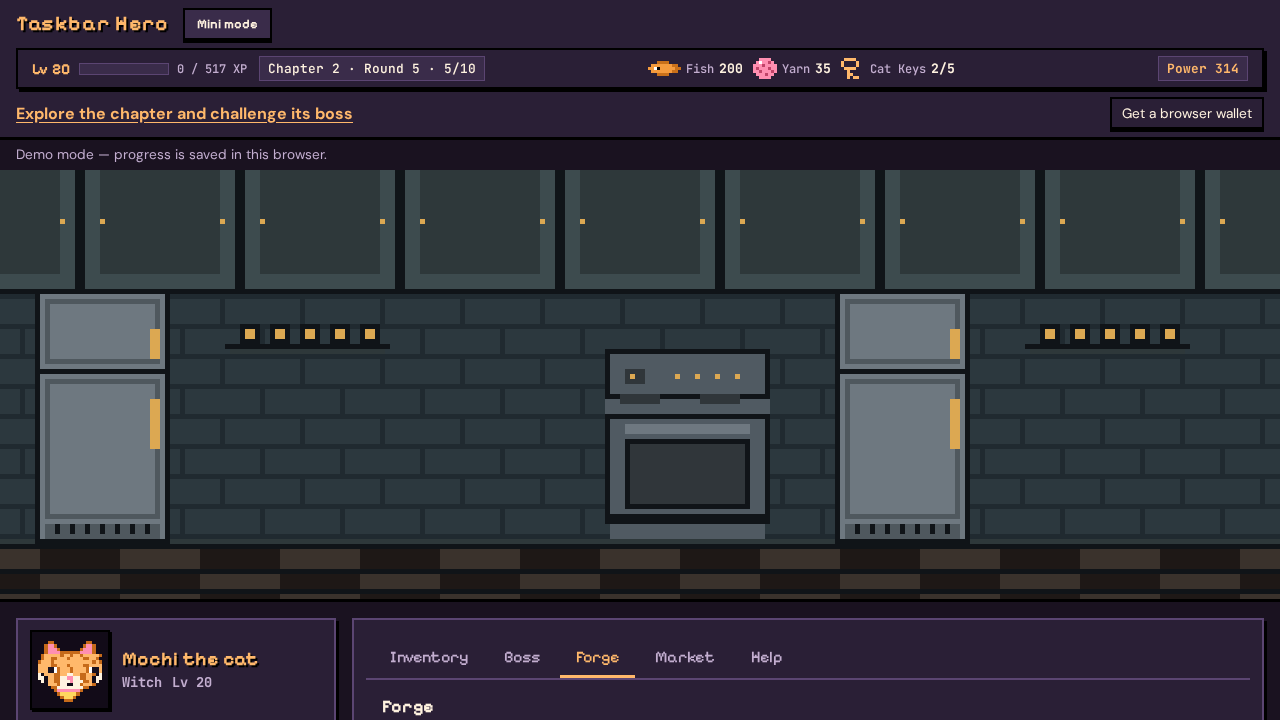
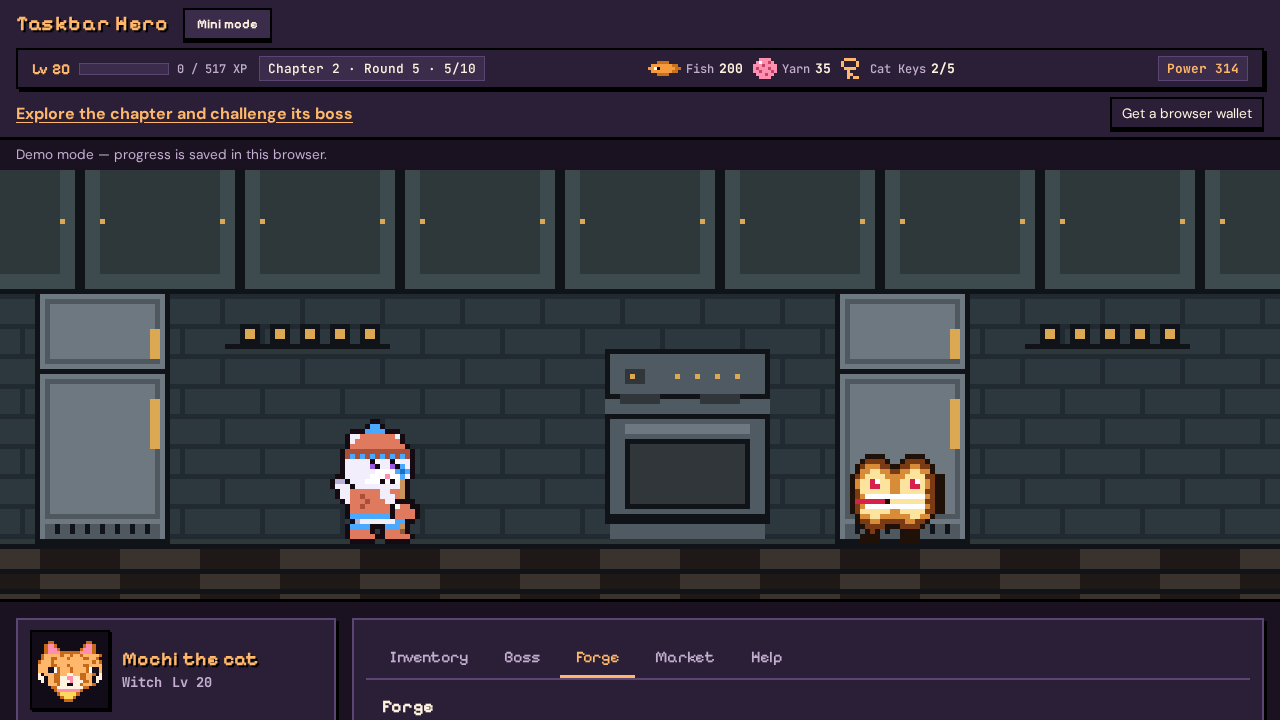
docs: report passing responsive window verification

Changed region(s): [[0.25, 0.5806, 0.3438, 0.7639], [0.6562, 0.6111, 0.75, 0.7639]]

diff --git a/reports/responsive-window.md b/reports/responsive-window.md
@@ -1,109 +1,89 @@
-STATUS: PARTIAL
-STACKED ON ai/codex-v26-e2e @ 33481ce01933834876037127e2753773a9a204cc: merge that first
+STATUS: DONE
+STACKED ON ai/codex-fix-stage-redraw @ 7760775cd2beae2f87efbcbeef6b849c5ae28a5c: merge that first
 
-# Responsive window fix and temporary coordination handoff
+# Responsive window: final verification for Claude
 
-The user requested temporary coordination for Codex/Antigravity under Claude's existing rules, automatic layout adaptation as the browser/in-app window shrinks or stretches, and a Claude review report. Later the user authorized automatic new Codex chats and said Antigravity prompts would be pasted manually.
+Date: 2026-10-26, Asia/Saigon. Branch ai/codex-responsive-window now combines its original CSS-only source changes with the completed, separate renderer-fix parent. The window can shrink/stretch continuously with wrapped HUD values, persistent state/panels and both stage actors rendering after scene replacement. No deployment or merge was performed.
 
-## Outcome
+## Scope, gate and review order
 
-The existing window resize listener already switches between desktop, tablet and phone and resizes the pixel-art scene. The defect was inside the HUD: at >=600 px shared styles force nowrap and hide horizontal overflow. Consequently XP text crossed the chapter chip and currency items crossed the power chip, despite no document scrollbar. The added geometry regression reproduced this in both themes at 1600×900 before the fix.
+The user chose “Keep scope; let Antigravity document it first.” This was followed: original C-R1 stopped PARTIAL at d4fb8ec745a92c1052a8250f57a4108b8ce59ac4 with 68 browser passes / 2 actor failures. No renderer edit was added to C-R1. Antigravity independently published named Finding A-R1-1 in reports/qa-v2-1.md on ai/antigravity-responsive-qa @ 9980b46c01f60dc41975975f6166e99cff16b918. That meets original Q13; its QA-only PARTIAL branch was read, never merged or used as an implementation parent.
 
-The stage shell now gives the HUD its own full-width row and allows groups, XP elements, currency items and chapter text to wrap according to available space. Lower panel children can shrink within their grid cells, and phone sheet content can shrink/scroll. Existing viewport metrics, game rendering/lifecycle, UI components and classic layout code are unchanged. The new styles are scoped to v2 layout classes; no stat is removed and overflow is not hidden to pass the check.
+Codex fixed that one bug on ai/codex-fix-stage-redraw from completed Q9. Only after its report reached DONE with all real checks passing was C-R1 rebased onto it. Only the coordinator's own ai/codex-* history is rewritten, with force-with-lease. An exact copy of the initial PARTIAL report is preserved [in this branch](responsive-window/initial-partial-report.txt); its original commit is also [available here](https://github.com/ntbaoheyhey/taskbar-hero/blob/d4fb8ec745a92c1052a8250f57a4108b8ce59ac4/reports/responsive-window.md); no failing assertion was weakened or deleted.
 
-The continuous-resize test checks 1600×900 → 1280×720 → 1024×768 → 1023×600 → 768×600 → 601×480 → 600×600 → 390×844 → 320×568 → 844×390 → 1280×480 → 1600×900, in dark and light themes. It checks leaf rectangles stay inside the HUD and do not overlap, no page horizontal overflow, class/level/inventory IDs and active Forge tab survive, no page reload (timeOrigin unchanged), exactly one stage canvas, and actual nontransparent actor pixels after each redraw. Screenshots wait for actors rather than capturing a newly created empty canvas.
+Merge/review order for Claude: existing Q4/Q5 → bulk-equip fix → completed Q9 @ 33481ce01933834876037127e2753773a9a204cc → [stage-redraw fix](https://github.com/ntbaoheyhey/taskbar-hero/blob/7760775cd2beae2f87efbcbeef6b849c5ae28a5c/reports/fix-stage-redraw.md) → this responsive branch. Parent source/report is inherited; C-R1's own product allowlist remains layout/layout.css only, plus its new e2e/layout/resize.spec.ts, coordination/prompts and reports/screenshots. Shared HUD, metrics, StageLayout behavior, backend, auth/contracts, economy, final art, dependencies and lock/workspace files are unchanged by this card. StageScene.ts and its lifecycle/actor regressions belong to the separate Q13 parent.
 
-## Coordination and rules
+## Result and acceptance
 
-- [Plan](../docs/responsive-coordination.md): C-R1 Codex implementation; A-R1 independent Antigravity visual/phone QA; C-R2 WAITING on named eligible QA findings.
-- [Antigravity prompt](../docs/prompts/antigravity-responsive-qa.md): ready for the user to paste. Not dispatched. Report-only branch and dated QA1 findings; no product fixes or merging another tool's source.
-- [Codex independent-review prompt](../docs/prompts/codex-responsive-review.md): prepared, not dispatched. Tool discovery searched create_thread and new-chat capabilities; no callable create_thread is exposed in this session. No new user chat or substitute agent was created. User permission is recorded and need not be requested again if the tool becomes available.
-- Claude's original approved-plan copy is not edited. No PR, main push/merge, Antigravity branch merge, workflow, deployment, live SQL, real transaction, auth/contract, dependency/lock/workspace, signed number or final art change. D4 remains NOT READY; D8/D6/D3/D5/D7/D9 stay user-only. This plan does not elevate temporary coordination into production authority.
+- PASS: HUD has a full-width row and scoped .v2-shell wrapping overrides; XP/currencies/progress do not overlap or clip. Lower panel children can shrink, and phone sheet content can scroll. No stat is hidden to satisfy geometry checks.
+- PASS: original continuous-resize assertions, with an atomic target-dimension/one-canvas wait, both dark and light, through 1600×900 → 1280×720 → 1024×768 → 1023×600 → 768×600 → 601×480 → 600×600 → 390×844 → 320×568 → 844×390 → 1280×480 → 1600×900.
+- PASS: no page horizontal overflow, no HUD leaf overlap/out-of-bounds, class/level/inventory IDs preserved, active Forge panel preserved, no reload (performance.timeOrigin constant), exactly one canvas and nontransparent actor pixels after redraw.
+- PASS: separate parent browser regression waits for resized canvas dimensions and checks BOTH cat/monster halves in normal/reduced motion. Three parent lifecycle tests cover latest queued state, scene replacement and shutdown.
+- PASS: full frozen install, generated-map drift, typecheck, lint, root unit suites, build and complete browser suite on the final combined branch. All 72 browser tests pass.
+- PASS: eight unretouched screenshots regenerated by the original dark/light resize tests at 1600, 1280, 390 and 320 widths, now after the actor guard passes. They replace the limited geometry-only images from the PARTIAL commit.
+- PASS: Antigravity's original QA evidence retained at its immutable commit; report/prompts ready for independent retest and Claude review.
+- NOT VERIFIED by this Codex run: physical iOS/Android, WebKit, deployed behavior, actual browser zoom 200%, exhaustive overlays/long-number QA, real backend/mint. Antigravity reported its own broader simulated QA on the old source; those claims are not substituted for an independent retest of this fix.
+- WAITING: independent retest of the final commit and Claude review/merge. DONE means implementation and required checks complete, not release or user milestone sign-off.
 
-## Acceptance
+No PR, merge, main push, workflow, deployment, Site access change, live SQL/backend write, transaction/signing, contract/auth change, applied economy/sign-off, final art or D-decision. D4 NOT READY; D8/D6/D3/D5/D7/D9 remain user-only. Existing preview is unchanged and its last access observation was public. No new private-preview claim is made.
 
-- PASS: both focused resize tests reproduce the old overlap and pass after the CSS fix; assertions were retained. FAIL: final full Playwright run checks actor pixels and finds 2 redraw failures; 68 other browser tests pass.
-- PASS in initial geometry-only focused run: resize boundaries and state/tab persistence. NOT VERIFIED after a successful pixel guard: full sequence stops at the missing-actors failure.
-- PASS: full pinned install, gen:deno drift, typecheck, lint, unit suite and build. FAIL: whole browser suite (68 passed / 2 failed); output below.
-- PASS: new plan, two complete handoff prompts and this report; source/report branch only.
-- NOT VERIFIED: physical phone Safari/Android, WebKit, 200% browser zoom and exhaustive long-number/overlay QA. These are explicit A-R1 cases, not claimed as completed by desktop Chromium simulation.
-- BLOCKER: StageScene.ts skips initial rendering while Phaser create() is running; fixing it is outside this card's CSS-only source scope. S5 requires stopping without weakening the pixel check.
-- WAITING: independent Codex review (new-chat tool unavailable), Antigravity manual dispatch/QA and Claude review/merge. Nothing deployed; existing demo audience was last observed public, so no private-preview claim is made for new work.
+## Screenshots
 
-## Gate and scope
+| Viewport | Dark | Light |
+|---|---|---|
+| 1600×900 | [Desktop](responsive-window/dark-1600-900.png) | [Desktop](responsive-window/light-1600-900.png) |
+| 1280×720 | [Desktop](responsive-window/dark-1280-720.png) | [Desktop](responsive-window/light-1280-720.png) |
+| 390×844 | [Phone simulation](responsive-window/dark-390-844.png) | [Phone simulation](responsive-window/light-390-844.png) |
+| 320×568 | [Narrow phone simulation](responsive-window/dark-320-568.png) | [Narrow phone simulation](responsive-window/light-320-568.png) |
 
-Parent Q9 report STATUS: DONE; parent commit 33481ce01933834876037127e2753773a9a204cc. Own changes: layout/layout.css; new e2e/layout/resize.spec.ts; coordination plan and two prompt documents; report and representative screenshots. Shared hud/**, metrics.ts, StageLayout.tsx, API, wallet/auth, art, game rules and applied migrations are read-only and unchanged relative to parent. Incidental screenshots generated into older cards' report folders were restored; new evidence is exclusively reports/responsive-window/.
+## Handoffs
 
-Preliminary checkout/CLI invocation errors produced no test verdict and are not counted. Correct focused command: `pnpm --filter @taskbar-hero/web exec playwright test resize.spec.ts --project=stage-layout`. Before-fix assertions failed; one CSS fix round produced focused passes. The test was then strengthened to await actor pixels and exposed an existing renderer lifecycle failure in the final full browser suite. No timeout, skip, golden or existing assertion was altered.
+- [Current coordination plan](../docs/responsive-coordination.md)
+- [Antigravity retest prompt](../docs/prompts/antigravity-responsive-retest.md): manual paste, read-only QA; keep the original A-R1 FAIL as historical evidence.
+- [Codex independent-review prompt](../docs/prompts/codex-responsive-review.md): prepared. Tool inventory still exposes no callable create_thread, so no new user chat was created and no independent Codex sign-off is claimed.
 
-## Renderer blocker for Claude review
+## Actual final checks
 
-StageCanvas remounts the Phaser scene when logicalWidth changes and queues the current state through show(). StageScene.create() tries show() while Phaser is in CREATING; show() returns because sys.isActive() is false. Phaser 3.90 SceneManager.js sets RUNNING only after scene.create.call() returns, then emits CREATE. The cat/monster can therefore remain absent until a later state update. This is consistent with the pixel regression and initial phone screenshots; merely finding a canvas misses it.
+All commands use pinned pnpm 10.28.0 and CI=true. Playwright uses PLAYWRIGHT_BROWSERS_PATH=/home/agent/.cache/ms-playwright. No further CSS change was needed after rebasing onto the completed renderer fix. C-R1’s second/final allowed fix round strengthens its new actor guard to atomically require exactly one canvas at the target dimensions before reading pixels; this carries forward the transient Phaser handoff race observed in C-R2. Every original geometry/state/actor assertion and timeout remains in place. Incidental older-card screenshots from existing tests were restored; current evidence is under reports/responsive-window/ and the inherited parent folder.
 
-Needed separate scope: apps/web/src/game/stage/StageScene.ts and a focused lifecycle regression test (StageCanvas.tsx only if investigation proves necessary). A candidate minimal repair is to render the queued state on the Phaser CREATE event after RUNNING, preserving shutdown cleanup and authoritative state. No such renderer edit has been made. Continue only via explicit user scope or a named eligible Antigravity QA1 finding and a separate fix card. Initial geometry screenshots in reports/responsive-window/ are evidence of the limited CSS result and can show the existing blank actors; they are not a completed renderer PASS.
-
-## Actual checks
-
-### resize-before
-
-```text
-    Error: HUD at 1600×900
-    HUD at 1600×900
-    +   "hud-stack-item outside HUD",
-    +   "hud-xp-text overlaps hud-chip hud-progress-chip",
-    +   "hud-stack-item overlaps hud-chip hud-power-chip",
-    Error: HUD at 1600×900
-    HUD at 1600×900
-    +   "hud-stack-item outside HUD",
-    +   "hud-xp-text overlaps hud-chip hud-progress-chip",
-    +   "hud-stack-item overlaps hud-chip hud-power-chip",
-  2 failed
-```
-
-### resize-after
-
-```text
-  2 passed (10.4s)
-```
-
-### responsive-install
+### install
 
 ```text
 $ pnpm install --frozen-lockfile
 Lockfile is up to date, resolution step is skipped
 Already up to date
-Done in 930ms using pnpm v10.28.0
-EXIT 0; runtime 1.00s
+Done in 746ms using pnpm v10.28.0
+EXIT 0; runtime 0.81s
 ```
 
-### responsive-deno
+### deno
 
 ```text
 $ pnpm gen:deno && git diff --exit-code -- supabase/functions
 > taskbar-hero@0.0.0 gen:deno /workspace/taskbar-responsive
 > node scripts/gen-deno-json.mjs
-EXIT 0; runtime 0.44s
+EXIT 0; runtime 0.30s
 ```
 
-### responsive-typecheck
+### typecheck
 
 ```text
 $ pnpm typecheck
 > taskbar-hero@0.0.0 typecheck /workspace/taskbar-responsive
 > pnpm -r typecheck
-EXIT 0; runtime 14.83s
+EXIT 0; runtime 15.03s
 ```
 
-### responsive-lint
+### lint
 
 ```text
 $ pnpm lint
 > taskbar-hero@0.0.0 lint /workspace/taskbar-responsive
 > pnpm -r lint
-EXIT 0; runtime 14.18s
+EXIT 0; runtime 14.86s
 ```
 
-### responsive-test
+### test
 
 ```text
 $ pnpm test
@@ -111,26 +91,26 @@ $ pnpm test
 > pnpm -r test
 packages/chain test:  Test Files  2 passed (2)
 packages/chain test:       Tests  7 passed (7)
-packages/chain test:    Duration  406ms (transform 52%, import 33%, tests 8%, worker 7%)
+packages/chain test:    Duration  320ms (import 39%, transform 31%, tests 15%, worker 14%, environment 1%)
 packages/auth test:  Test Files  1 passed (1)
 packages/auth test:       Tests  24 passed (24)
-packages/auth test:    Duration  682ms (import 60%, tests 27%, transform 11%, worker 1%)
+packages/auth test:    Duration  636ms (import 63%, tests 33%, transform 3%, worker 1%)
 supabase/tests test:  Test Files  18 passed (18)
 supabase/tests test:       Tests  385 passed (385)
-supabase/tests test:    Duration  45.18s (tests 87%, import 10%, transform 2%)
+supabase/tests test:    Duration  44.13s (tests 89%, import 10%)
 packages/game-rules test:  Test Files  19 passed | 2 skipped (21)
 packages/game-rules test:       Tests  326 passed | 2 expected fail | 4 skipped (332)
-packages/game-rules test:    Duration  85.13s (tests 97%, import 1%, transform 1%)
+packages/game-rules test:    Duration  83.40s (tests 99%, import 1%)
 packages/api-contract test:  Test Files  1 passed (1)
 packages/api-contract test:       Tests  16 passed (16)
-packages/api-contract test:    Duration  423ms (transform 81%, import 15%, tests 3%, worker 1%)
-apps/web test:  Test Files  80 passed (80)
-apps/web test:       Tests  1063 passed (1063)
-apps/web test:    Duration  83.21s (environment 55%, tests 31%, import 11%, transform 3%)
-EXIT 0; runtime 171.41s
+packages/api-contract test:    Duration  201ms (import 46%, transform 43%, tests 8%, worker 3%)
+apps/web test:  Test Files  81 passed (81)
+apps/web test:       Tests  1066 passed (1066)
+apps/web test:    Duration  80.06s (environment 57%, tests 31%, import 10%, transform 1%)
+EXIT 0; runtime 166.22s
 ```
 
-### responsive-build
+### build
 
 ```text
 $ pnpm build
@@ -142,39 +122,128 @@ packages/game-rules build: Done
 supabase/tests build: Done
 packages/api-contract build: Done
 apps/web build: Done
-EXIT 0; runtime 16.56s
+EXIT 0; runtime 16.03s
 ```
 
-### responsive-e2e
+### e2e
 
 ```text
 $ cd apps/web && PLAYWRIGHT_BROWSERS_PATH=/home/agent/.cache/ms-playwright pnpm test:e2e
 > @taskbar-hero/web@0.0.0 test:e2e /workspace/taskbar-responsive/apps/web
 > playwright test
-  2 failed
-  68 passed (1.8m)
-EXIT 1; runtime 106.55s
+  72 passed (1.7m)
+EXIT 0; runtime 105.07s
 ```
 
-## Own diff from the completed Q9 parent
+## Diff and authors
+
+Own diff from completed renderer-fix parent (report updated separately):
 
 ```text
- apps/web/e2e/layout/resize.spec.ts           |  58 +++++++++++++++++++++++++++
- apps/web/src/layout/layout.css               |  29 +++++++++++++-
- docs/prompts/antigravity-responsive-qa.md    |  19 +++++++++
- docs/prompts/codex-responsive-review.md      |  15 +++++++
- docs/responsive-coordination.md              |  41 +++++++++++++++++++
- reports/responsive-window/dark-1280-720.png  | Bin 0 -> 32904 bytes
- reports/responsive-window/dark-1600-900.png  | Bin 0 -> 39528 bytes
- reports/responsive-window/dark-320-568.png   | Bin 0 -> 22854 bytes
- reports/responsive-window/dark-390-844.png   | Bin 0 -> 32459 bytes
- reports/responsive-window/light-1280-720.png | Bin 0 -> 32883 bytes
- reports/responsive-window/light-1600-900.png | Bin 0 -> 39492 bytes
- reports/responsive-window/light-320-568.png  | Bin 0 -> 22999 bytes
- reports/responsive-window/light-390-844.png  | Bin 0 -> 32600 bytes
- 13 files changed, 161 insertions(+), 1 deletion(-)
+apps/web/e2e/layout/resize.spec.ts                 |  62 +++++++
+ apps/web/src/layout/layout.css                     |  29 +++-
+ docs/prompts/antigravity-responsive-qa.md          |  23 +++
+ docs/prompts/antigravity-responsive-retest.md      |  17 ++
+ docs/prompts/codex-responsive-review.md            |  15 ++
+ docs/responsive-coordination.md                    |  38 +++++
+ reports/fix-stage-redraw/actors-1600-900.png       | Bin 10438 -> 10438 bytes
+ reports/fix-stage-redraw/actors-320-568.png        | Bin 3332 -> 3295 bytes
+ reports/responsive-window.md                       | 180 +++++++++++++++++++++
+ reports/responsive-window/dark-1280-720.png        | Bin 0 -> 34104 bytes
+ reports/responsive-window/dark-1600-900.png        | Bin 0 -> 40945 bytes
+ reports/responsive-window/dark-320-568.png         | Bin 0 -> 23818 bytes
+ reports/responsive-window/dark-390-844.png         | Bin 0 -> 33483 bytes
+ .../responsive-window/initial-partial-report.txt   | 180 +++++++++++++++++++++
+ reports/responsive-window/light-1280-720.png       | Bin 0 -> 34164 bytes
+ reports/responsive-window/light-1600-900.png       | Bin 0 -> 40898 bytes
+ reports/responsive-window/light-320-568.png        | Bin 0 -> 23955 bytes
+ reports/responsive-window/light-390-844.png        | Bin 0 -> 33624 bytes
+ 18 files changed, 543 insertions(+), 1 deletion(-)
 ```
 
-## User decision after the blocker
+```text
+$ git log --format='%an <%ae>' origin/main..HEAD | sort -u
+ntbaoheyhey <108352255+ntbaoheyhey@users.noreply.github.com>
+```
 
-The user answered: “Keep scope; let Antigravity document it first.” C-R1 remains PARTIAL. Do not edit StageScene/StageCanvas or broaden this card. A-R1 is the next action: independent read-only reproduction and a named dated QA1 finding. A renderer fix remains WAITING on that eligible evidence under the original Q13 rules. No new renderer approval is pending, and no generic continuation should be treated as permission to bypass this decision.
+Full inherited stack diff requested by S3:
+
+```text
+apps/web/e2e/layout/arena.spec.ts                  |  22 ++
+ apps/web/e2e/layout/character-bag.spec.ts          |  17 +-
+ apps/web/e2e/layout/resize.spec.ts                 |  62 ++++
+ apps/web/e2e/layout/stage-layout.spec.ts           |  45 ++-
+ apps/web/e2e/layout/stage-redraw.spec.ts           |  48 +++
+ apps/web/e2e/v2/loop.spec.ts                       | 146 +++++++++
+ apps/web/playwright.config.ts                      |   7 +-
+ apps/web/src/dev/ArenaPreview.tsx                  |  13 +
+ apps/web/src/game/arena/ArenaScene.test.ts         |  39 +++
+ apps/web/src/game/arena/ArenaScene.ts              |  96 ++++++
+ apps/web/src/game/arena/BossArena.test.tsx         |  32 ++
+ apps/web/src/game/arena/BossArena.tsx              |  38 +++
+ apps/web/src/game/arena/arena.css                  |   8 +
+ apps/web/src/game/arena/assets.ts                  |  39 +++
+ apps/web/src/game/arena/index.ts                   |   2 +
+ apps/web/src/game/arena/playBossFight.ts           |  21 ++
+ apps/web/src/game/arena/playback.test.ts           |  39 +++
+ apps/web/src/game/arena/playback.ts                |  28 ++
+ apps/web/src/game/stage/StageCanvas.tsx            |  33 ++
+ apps/web/src/game/stage/StageScene.test.ts         |  59 ++++
+ apps/web/src/game/stage/StageScene.ts              |  58 ++++
+ apps/web/src/game/stage/bulkEquip.test.ts          |  57 ++++
+ apps/web/src/game/stage/progress.ts                |   8 +
+ apps/web/src/game/stage/storeV2.test.ts            |  33 ++
+ apps/web/src/game/v2/storeV2.ts                    |  46 +++
+ apps/web/src/layout/StageLayout.test.tsx           |  49 ++-
+ apps/web/src/layout/StageLayout.tsx                | 109 +++++--
+ apps/web/src/layout/layout.css                     |  38 +++
+ apps/web/src/main.tsx                              |   2 +
+ docs/prompts/antigravity-responsive-qa.md          |  23 ++
+ docs/prompts/antigravity-responsive-retest.md      |  17 ++
+ docs/prompts/codex-responsive-review.md            |  15 +
+ docs/responsive-coordination.md                    |  38 +++
+ reports/fix-bulk-equip.md                          | 136 +++++++++
+ reports/fix-stage-redraw.md                        | 306 +++++++++++++++++++
+ reports/fix-stage-redraw/actors-1600-900.png       | Bin 0 -> 10438 bytes
+ reports/fix-stage-redraw/actors-320-568.png        | Bin 0 -> 3332 bytes
+ reports/fix-stage-redraw/actors-390-844.png        | Bin 0 -> 2826 bytes
+ reports/responsive-window.md                       | 180 +++++++++++
+ reports/responsive-window/dark-1280-720.png        | Bin 0 -> 32904 bytes
+ reports/responsive-window/dark-1600-900.png        | Bin 0 -> 39528 bytes
+ reports/responsive-window/dark-320-568.png         | Bin 0 -> 22854 bytes
+ reports/responsive-window/dark-390-844.png         | Bin 0 -> 32459 bytes
+ .../responsive-window/initial-partial-report.txt   | 180 +++++++++++
+ reports/responsive-window/light-1280-720.png       | Bin 0 -> 32883 bytes
+ reports/responsive-window/light-1600-900.png       | Bin 0 -> 39492 bytes
+ reports/responsive-window/light-320-568.png        | Bin 0 -> 22999 bytes
+ reports/responsive-window/light-390-844.png        | Bin 0 -> 32600 bytes
+ reports/v16-stage.md                               | 333 +++++++++++++++++++++
+ reports/v16-stage/stage-1280.png                   | Bin 0 -> 36093 bytes
+ reports/v16-stage/stage-390.png                    | Bin 0 -> 31824 bytes
+ reports/v19-arena.md                               | 300 +++++++++++++++++++
+ reports/v19-arena/1280.png                         | Bin 0 -> 31112 bytes
+ reports/v19-arena/390-reduced.png                  | Bin 0 -> 21169 bytes
+ reports/v26-e2e.md                                 | 192 ++++++++++++
+ reports/v26-e2e/equip-1280.png                     | Bin 0 -> 36171 bytes
+ reports/v26-e2e/equip-390-reduced.png              | Bin 0 -> 33580 bytes
+ reports/v26-e2e/equip-390.png                      | Bin 0 -> 33575 bytes
+ reports/v26-e2e/forge-1280.png                     | Bin 0 -> 34251 bytes
+ reports/v26-e2e/forge-390-reduced.png              | Bin 0 -> 40646 bytes
+ reports/v26-e2e/forge-390.png                      | Bin 0 -> 40646 bytes
+ reports/v26-e2e/fresh-1280.png                     | Bin 0 -> 34894 bytes
+ reports/v26-e2e/fresh-390-reduced.png              | Bin 0 -> 29483 bytes
+ reports/v26-e2e/fresh-390.png                      | Bin 0 -> 29483 bytes
+ reports/v26-e2e/idle-1280.png                      | Bin 0 -> 36127 bytes
+ reports/v26-e2e/idle-390-reduced.png               | Bin 0 -> 31828 bytes
+ reports/v26-e2e/idle-390.png                       | Bin 0 -> 31824 bytes
+ reports/v26-e2e/loss-1280.png                      | Bin 0 -> 35852 bytes
+ reports/v26-e2e/loss-390-reduced.png               | Bin 0 -> 30999 bytes
+ reports/v26-e2e/loss-390.png                       | Bin 0 -> 42368 bytes
+ reports/v26-e2e/reload-1280.png                    | Bin 0 -> 35600 bytes
+ reports/v26-e2e/reload-390-reduced.png             | Bin 0 -> 32900 bytes
+ reports/v26-e2e/reload-390.png                     | Bin 0 -> 32900 bytes
+ reports/v26-e2e/win-1280.png                       | Bin 0 -> 36716 bytes
+ reports/v26-e2e/win-390-reduced.png                | Bin 0 -> 34531 bytes
+ reports/v26-e2e/win-390.png                        | Bin 0 -> 34471 bytes
+ 76 files changed, 2886 insertions(+), 28 deletions(-)
+```
